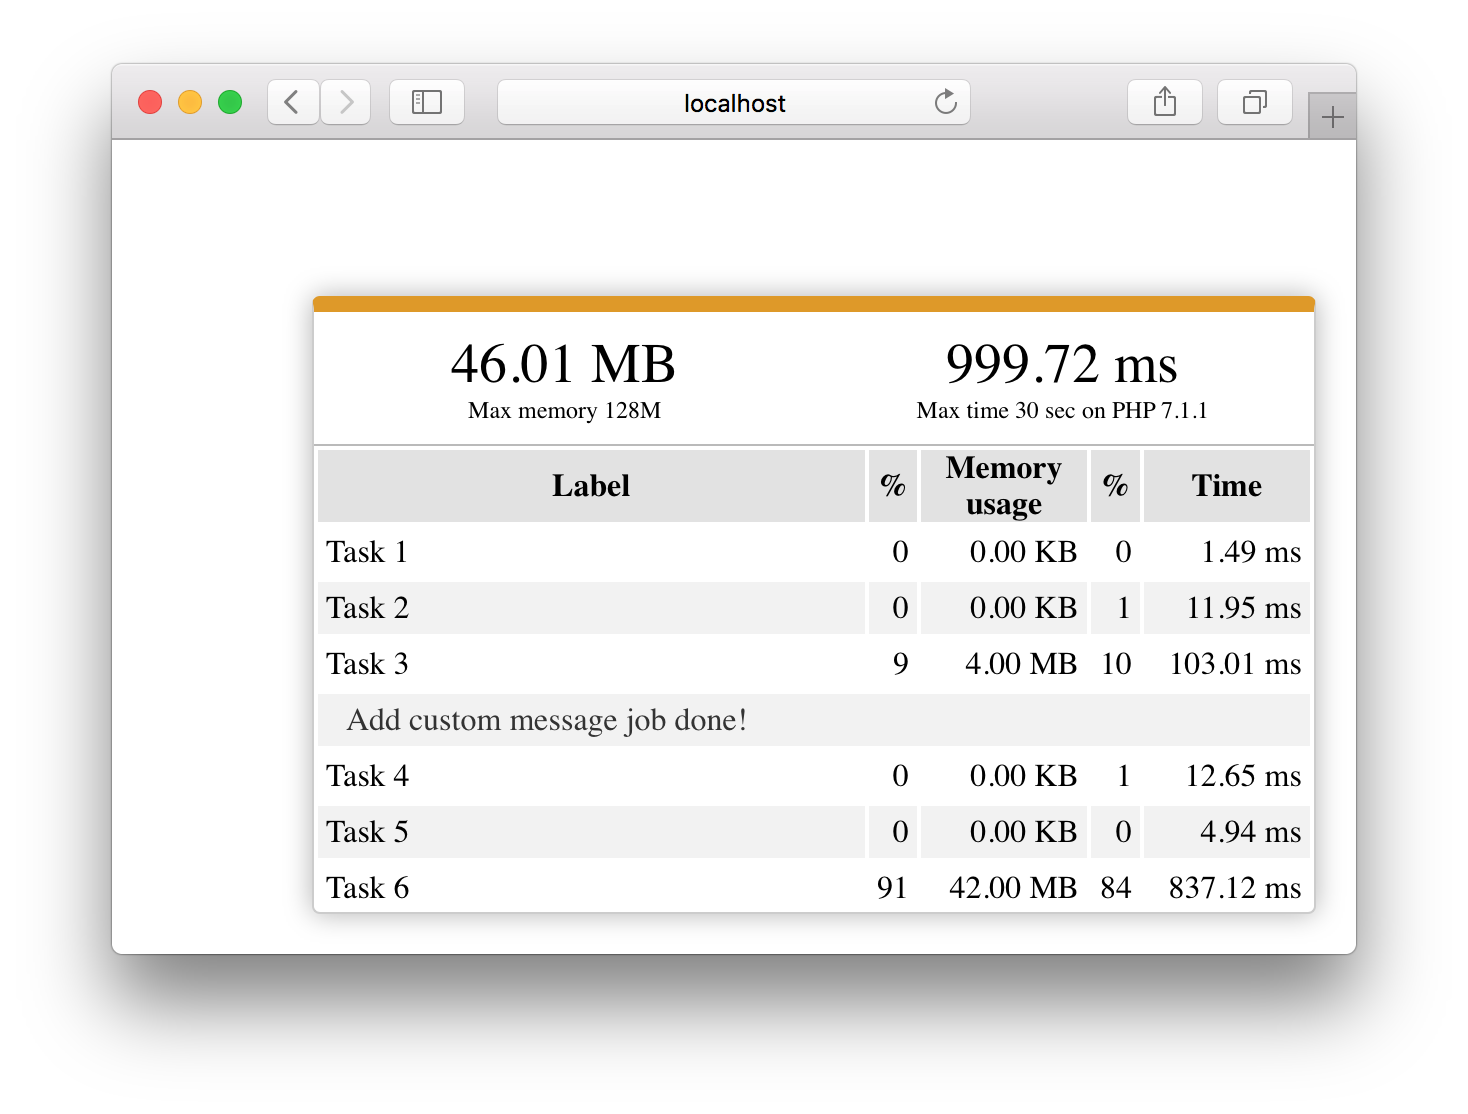
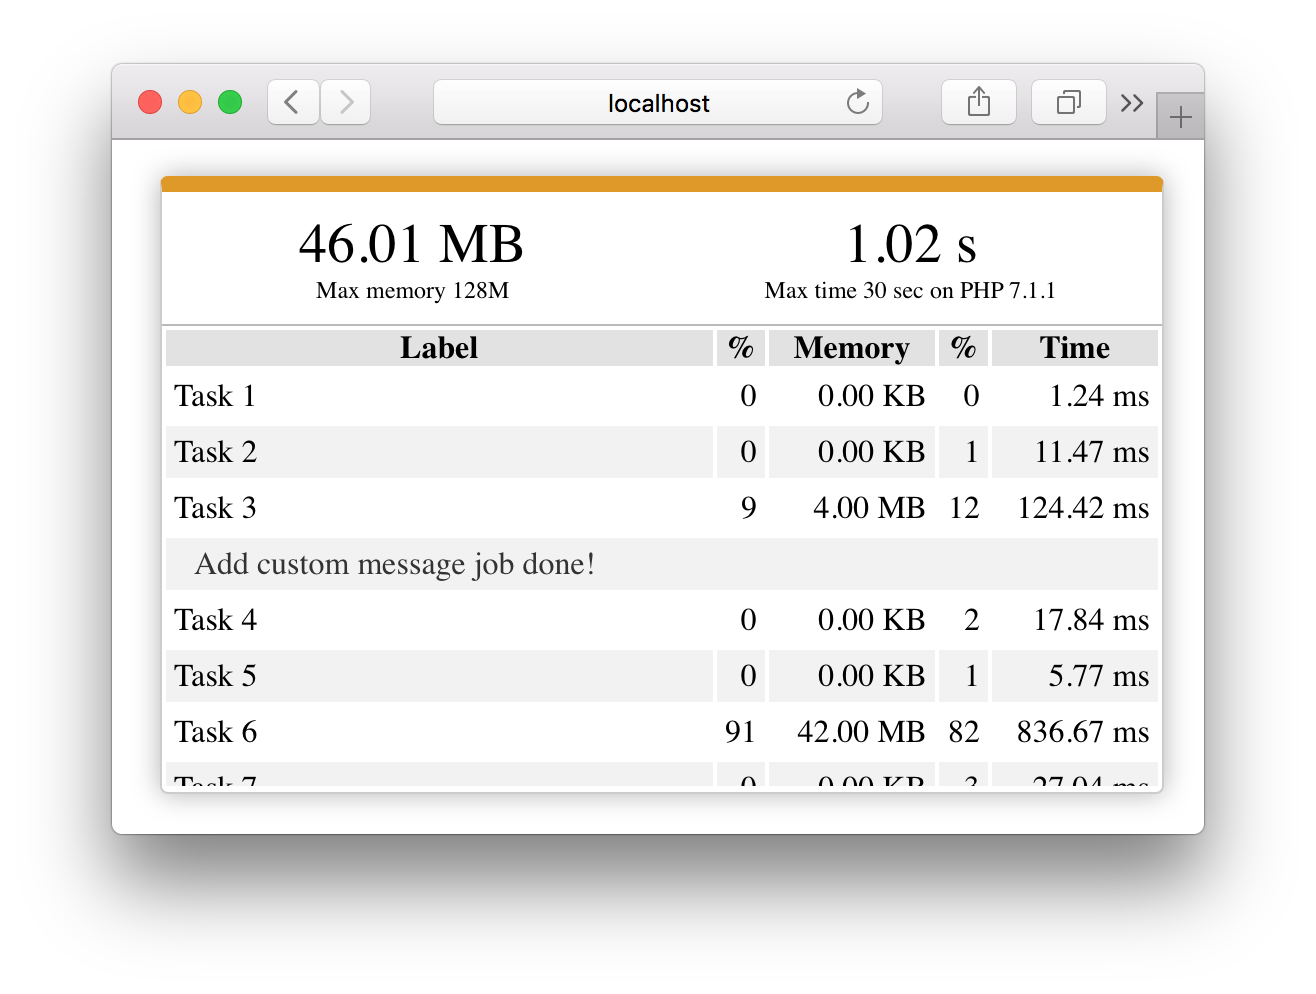
Update image

diff --git a/src/Lib/Presenters/WebPresenter.php b/src/Lib/Presenters/WebPresenter.php
@@ -64,7 +64,7 @@ class WebPresenter extends Presenter
                     <tr>
                         <th>Label</th>
                         <th width="5%">%</th>
-                        <th width="17%">Memory usage</th>
+                        <th width="17%">Memory</th>
                         <th width="5%">%</th>
                         <th width="17%">Time</th>
                     </tr>';
